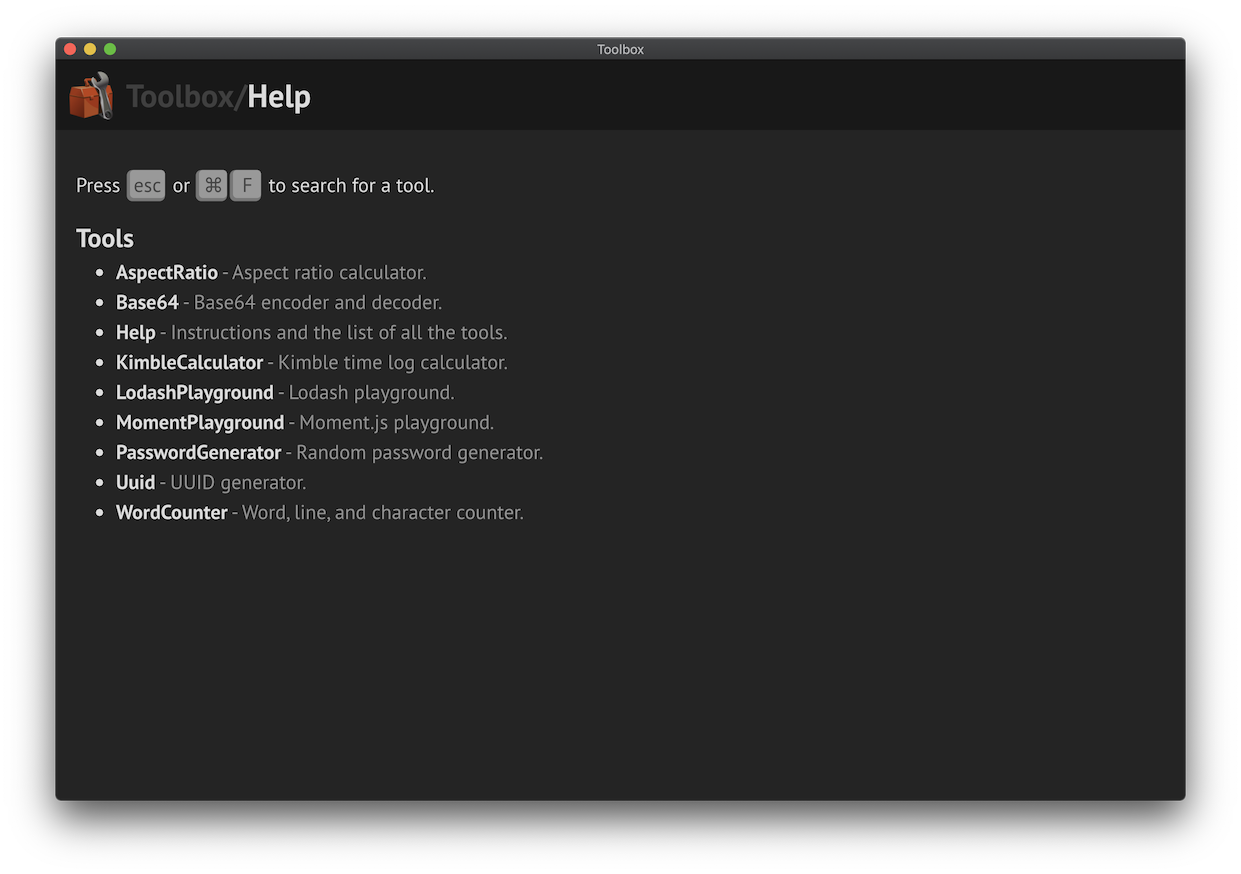
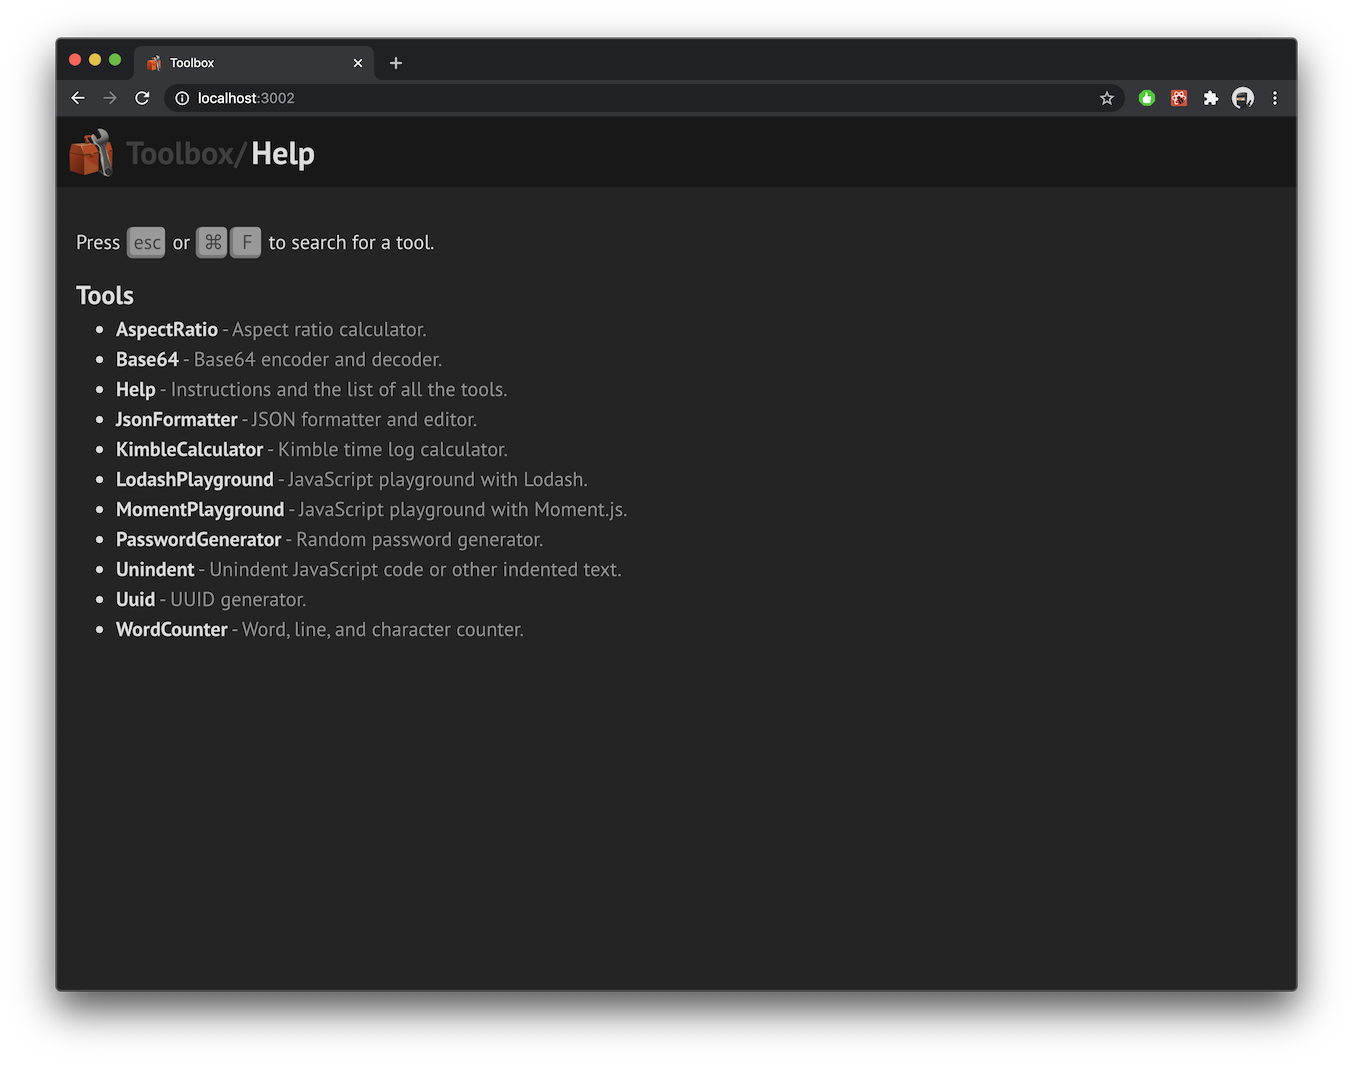
Added unindent tool

Changed region(s): [[0.0306, 0.0309, 0.9799, 0.9577]]

diff --git a/src/tools/Unindent.jsx b/src/tools/Unindent.jsx
@@ -1,0 +1,31 @@
+import React, { useState, useCallback } from "react";
+import Formatter from "../components/Formatter";
+import { reindent } from "../utils";
+
+const initialCode = `
+      const foo = 'hello';
+      if (const) {
+        console.log(foo);
+      }
+`;
+
+const Unindent = ({ pasted }) => {
+  const [code, setCode] = useState();
+
+  const onValidate = useCallback((value) => ({ value: reindent(value) }), []);
+
+  return (
+    <Formatter
+      pasted={pasted}
+      title="Edit your code:"
+      name="code"
+      state={code}
+      setState={setCode}
+      initialCode={initialCode}
+      onValidate={onValidate}
+      mode="javascript"
+    />
+  );
+};
+
+export default Unindent;

diff --git a/src/tools/index.js b/src/tools/index.js
@@ -9,6 +9,7 @@ import PasswordGenerator from "./PasswordGenerator";
 import Uuid from "./Uuid";
 import LodashPlayground from "./LodashPlayground";
 import WordCounter from "./WordCounter";
+import Unindent from "./Unindent";
 
 const tools = {
   AspectRatio: {
@@ -50,6 +51,11 @@ const tools = {
     name: "PasswordGenerator",
     description: "Random password generator.",
     component: PasswordGenerator,
+  },
+  Unindent: {
+    name: "Unindent",
+    description: "Unindent JavaScript code or other indented text.",
+    component: Unindent,
   },
   Uuid: {
     name: "Uuid",

diff --git a/README.md b/README.md
@@ -12,7 +12,7 @@ There are only a few tools at the moment. I will add new tools incrementally.
 
 Usually, when I make small tools for myself, it's not worth the time to polish them, or create reusable components to make a consistent look&feel.
 
-But since I plan to add a lot of tools to this toolbox, I've spent the time creating kind of a platform for them. This makes it easy to add new tools, make their UIs consistent, generalise often needed functionalities, etc. It also contains base components for classes of tools, like generators, analyzers, playgrounds.
+But since I plan to add a lot of tools to this toolbox, I've spent the time creating kind of a platform for them. This makes it easy to add new tools, make their UIs consistent, generalise often needed functionalities, etc. It also contains base components for classes of tools, like generators, analyzers, formatters, playgrounds.
 
 ## Main scripts
 
@@ -38,6 +38,7 @@ It's easiest to search for the current port and replace it everywhere.
 ## Screenshots
 
 ![Help](docs/screenshot-help.png)
+![Search](docs/screenshot-search.png)
 ![Lodash](docs/screenshot-lodash.png)
 ![Base64](docs/screenshot-bsase64.png)
 ![Uuid](docs/screenshot-uuid.png)
